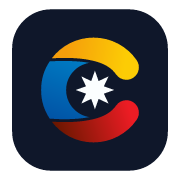
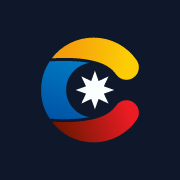
fix(brand): renderizar og-image e iconos con fondo solido azul completo (sin esquinas blancas)

Changed region(s): [[0.0, 0.0, 1.0, 1.0]]

diff --git a/index.html b/index.html
@@ -25,10 +25,10 @@
   <!-- Open Graph / Meta de Compartir (WhatsApp, Telegram, Redes Sociales) -->
   <meta property="og:type" content="website">
   <meta property="og:url" content="https://leonjuv.github.io/civico/">
-  <meta property="og:title" content="CÍVICO - Tus Derechos y Leyes en Alcabalas">
+  <meta property="og:title" content="CÍVICO - La ley en tus manos">
   <meta property="og:description" content="Verificador legal offline y gratuito para ciudadanos en Venezuela. Conoce tus derechos ante alcabalas, retención de vehículos y revisión de celulares.">
-  <meta property="og:image" content="https://leonjuv.github.io/civico/icon-512.png">
-  <meta property="og:image:secure_url" content="https://leonjuv.github.io/civico/icon-512.png">
+  <meta property="og:image" content="https://leonjuv.github.io/civico/og-image.png?v=2">
+  <meta property="og:image:secure_url" content="https://leonjuv.github.io/civico/og-image.png?v=2">
   <meta property="og:image:type" content="image/png">
   <meta property="og:image:width" content="512">
   <meta property="og:image:height" content="512">
@@ -36,9 +36,9 @@
 
   <!-- Twitter Card -->
   <meta name="twitter:card" content="summary">
-  <meta name="twitter:title" content="CÍVICO - Tus Derechos y Leyes en Alcabalas">
+  <meta name="twitter:title" content="CÍVICO - La ley en tus manos">
   <meta name="twitter:description" content="Verificador legal offline y gratuito para ciudadanos en Venezuela. Conoce tus derechos ante alcabalas, retención de vehículos y revisión de celulares.">
-  <meta name="twitter:image" content="https://leonjuv.github.io/civico/icon-512.png">
+  <meta name="twitter:image" content="https://leonjuv.github.io/civico/og-image.png?v=2">
 
   <!-- Google tag (gtag.js) - Google Analytics 4 -->
   <script async src="https://www.googletagmanager.com/gtag/js?id=G-0MPSH86K30"></script>

diff --git a/sw.js b/sw.js
@@ -1,4 +1,4 @@
-const CACHE_NAME = "civico-v14";
+const CACHE_NAME = "civico-v15";
 const ASSETS_TO_CACHE = [
   "./",
   "./index.html",
@@ -6,6 +6,7 @@ const ASSETS_TO_CACHE = [
   "./app.js",
   "./manifest.json",
   "./icono-civico.svg",
+  "./icono-compartir.svg",
   "./logotipo-civico.svg",
   "./icon-192.png",
   "./icon-512.png",
